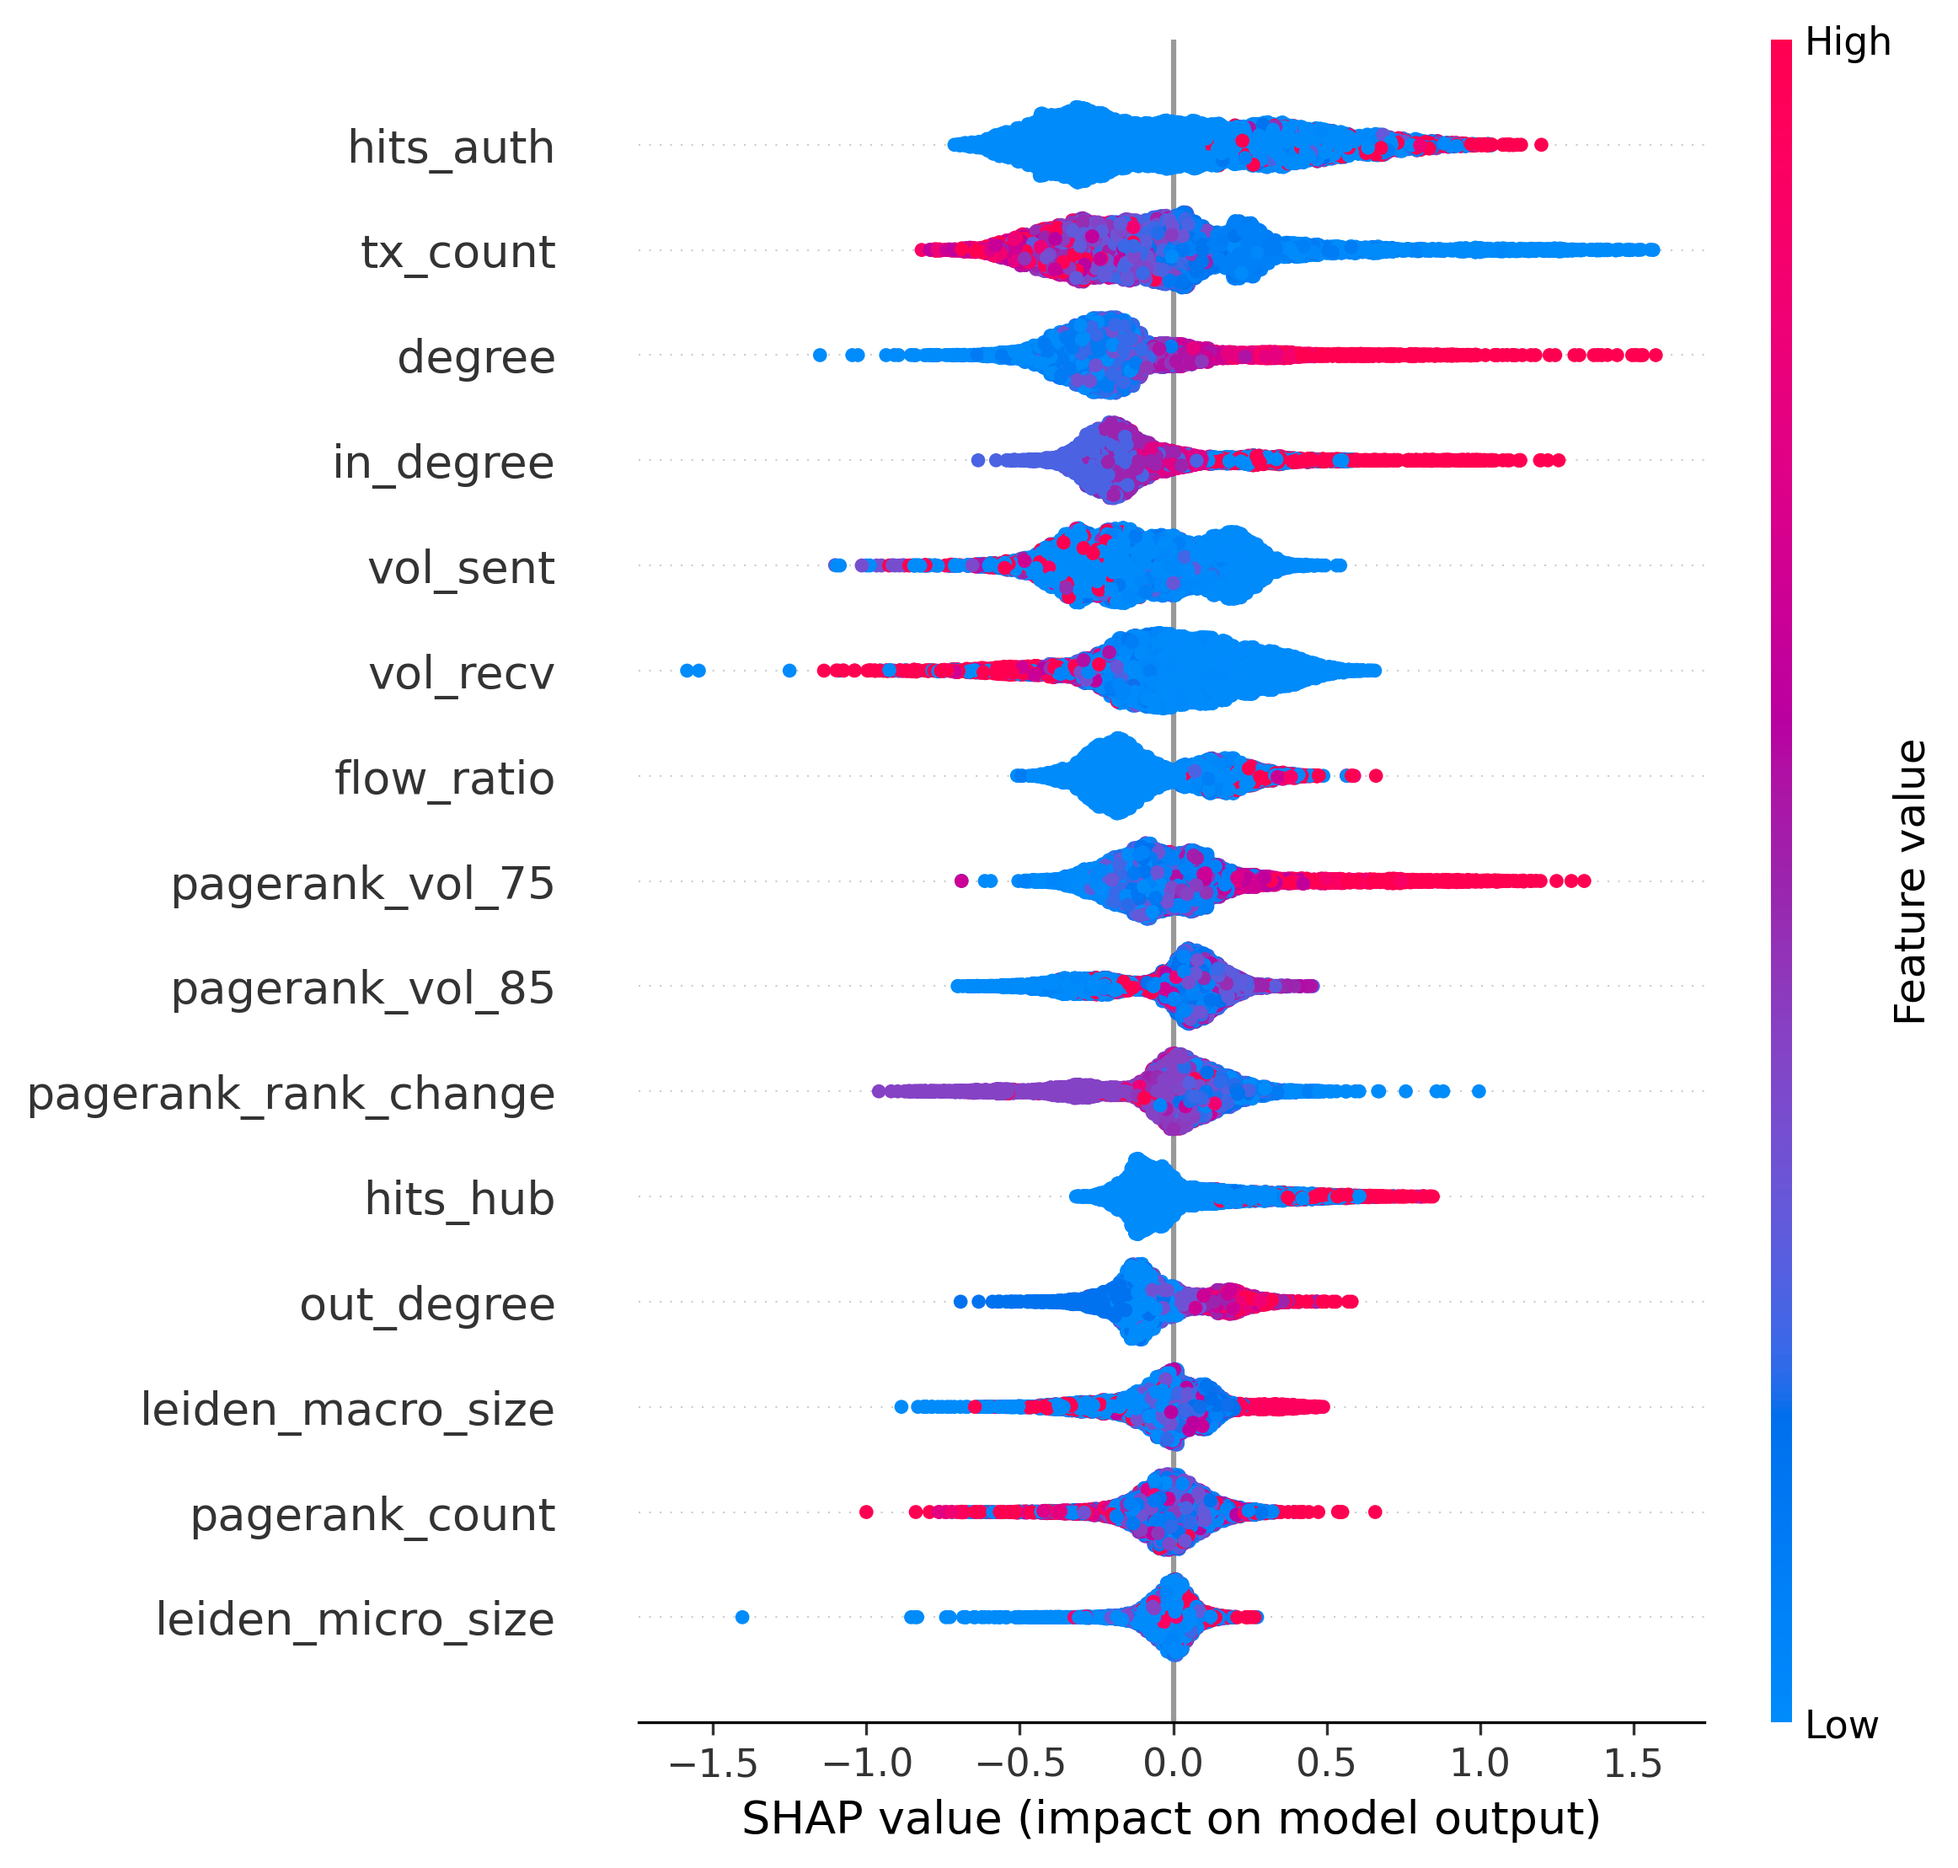
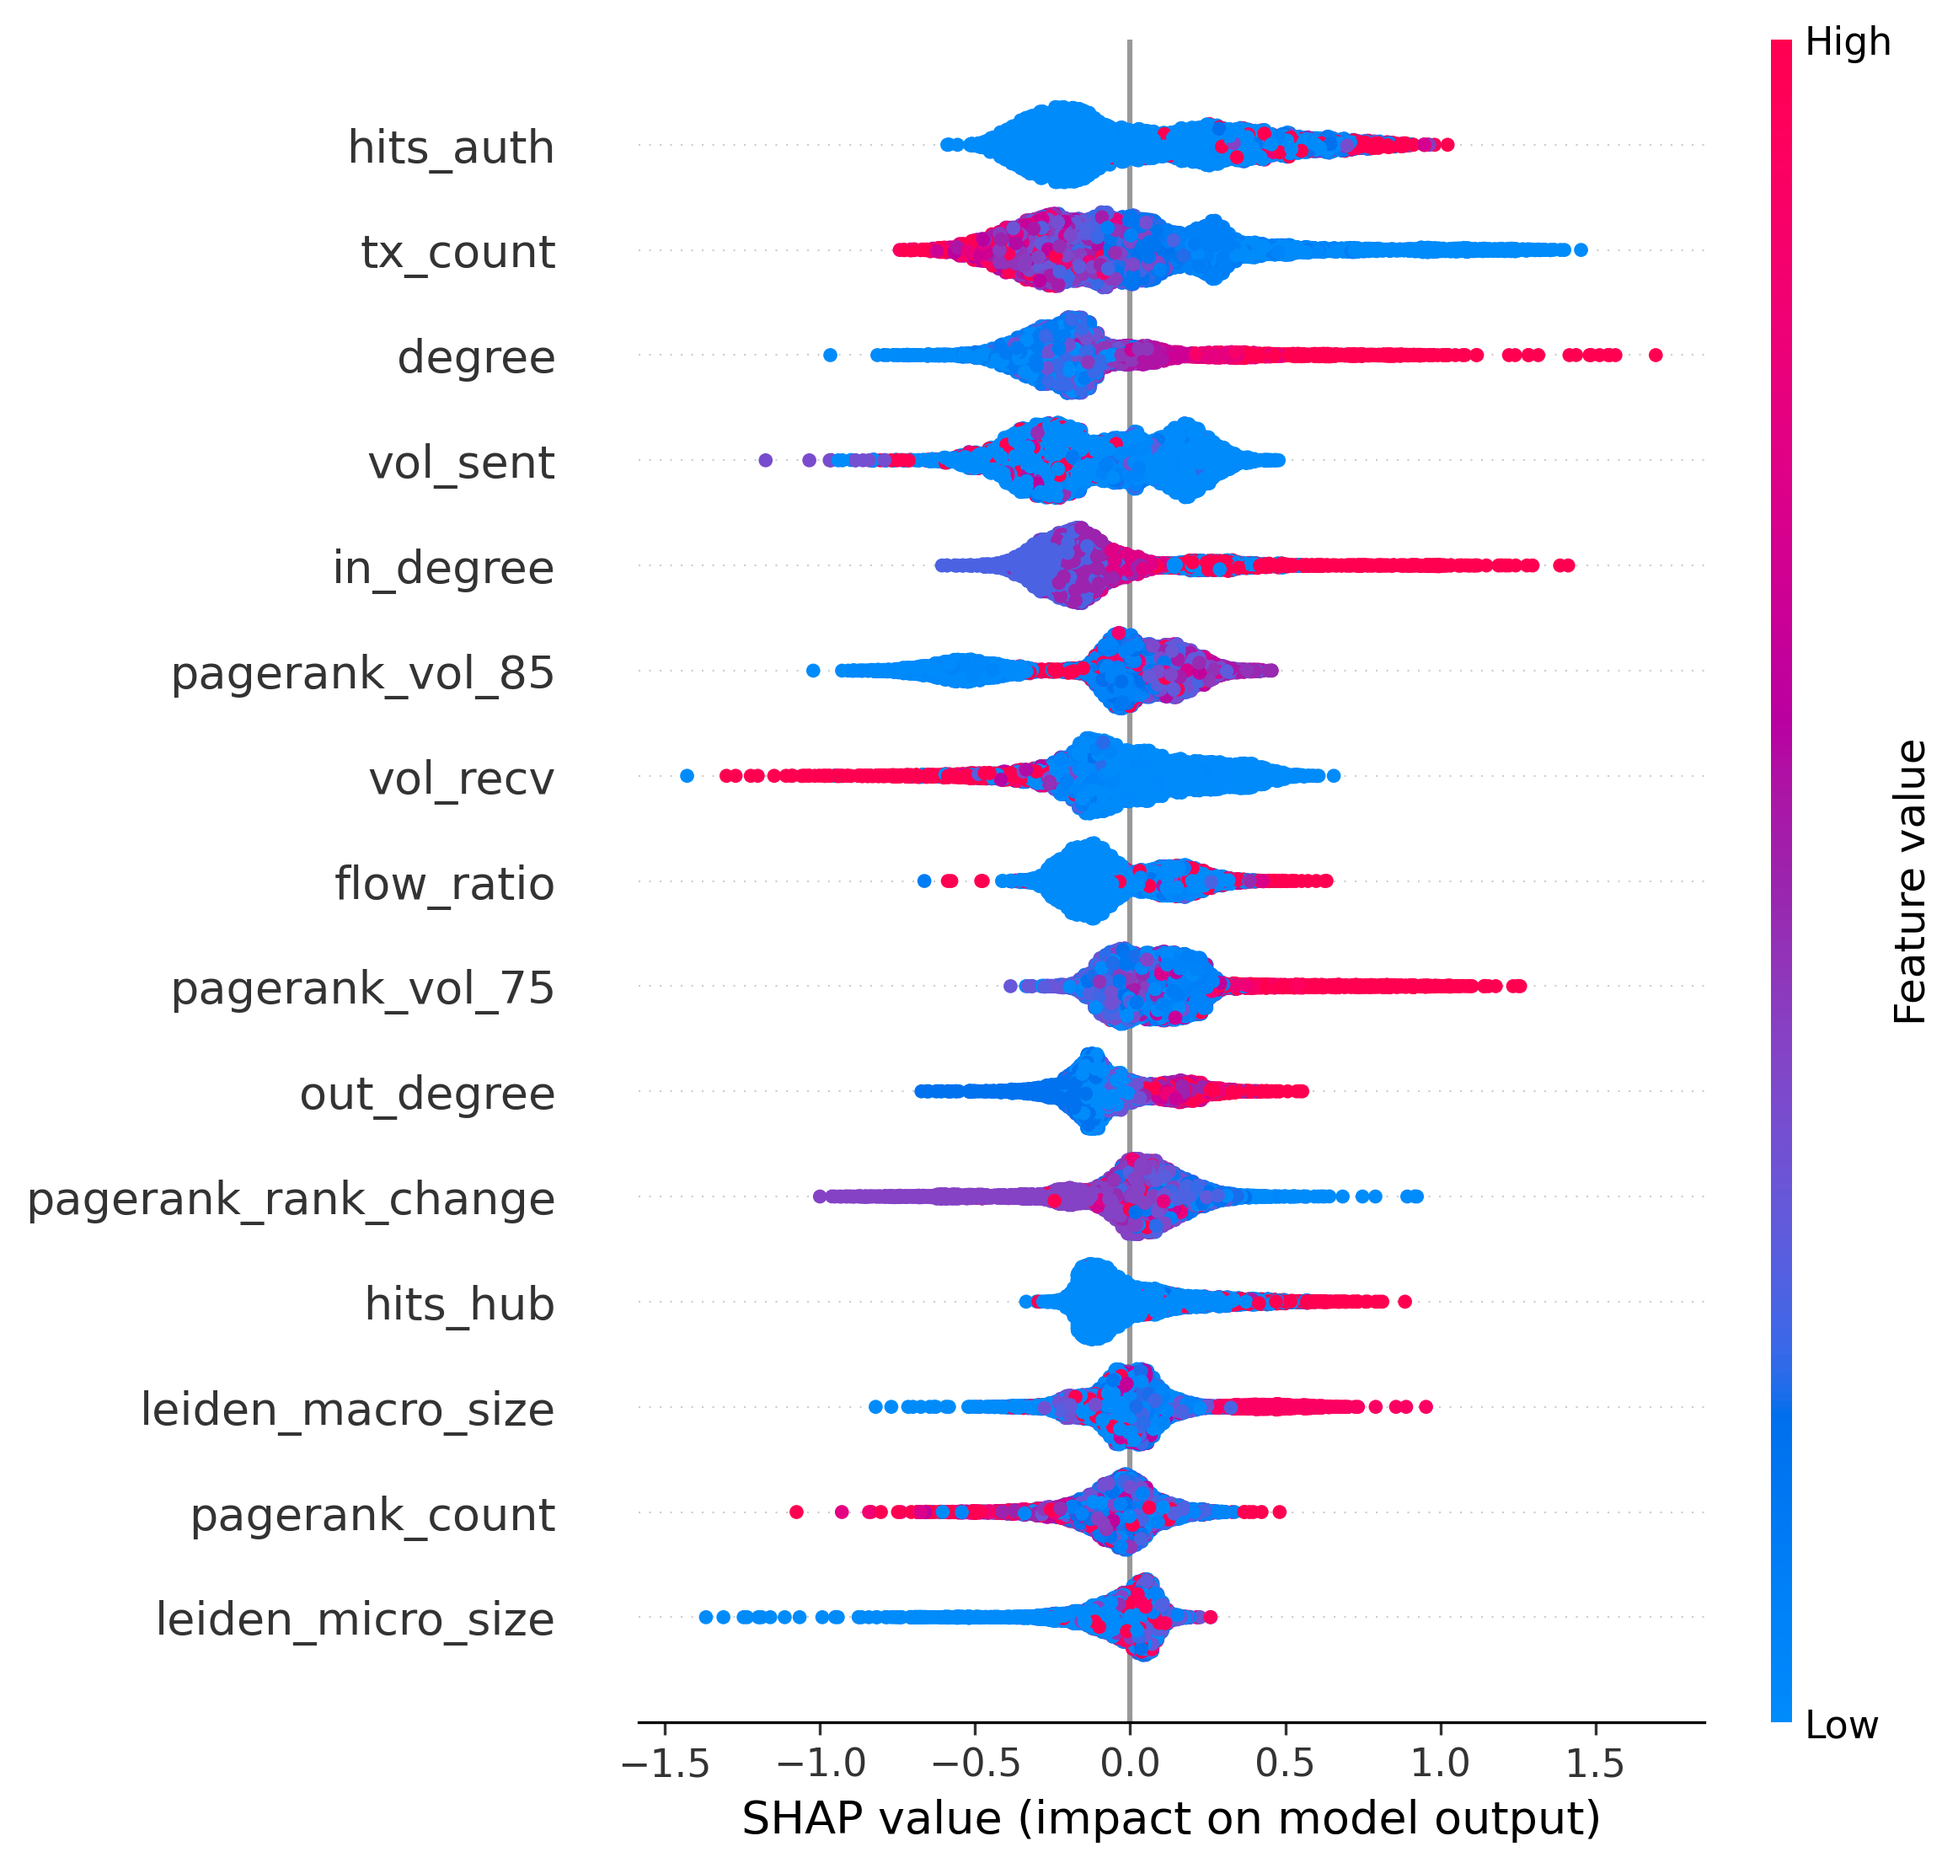
Fix timestamp, chunks and pagerank logs

diff --git a/scripts/01_filter_raw_data.py b/scripts/01_filter_raw_data.py
@@ -2,6 +2,8 @@ import pandas as pd
 import numpy as np
 import argparse
 from pathlib import Path
+import pyarrow as pa
+import pyarrow.parquet as pq
 
 # Config for column mapping
 RAW_HEADER = [
@@ -29,61 +31,85 @@ CUTOFF_CONFIG = {
 
 def process_dataset(dataset_name: str, base_dir: str = "data"):
     """
-    Process raw AMLworld CSVs:
-    1. Load data without topology filtering (keep all types/currencies).
-    2. Filter out 'post-simulation' dates where artifacts occur.
+    Process raw AMLworld CSVs via memory-safe disk streaming:
+    1. Read data in chunks of 1 million rows to prevent OOM errors.
+    2. Enforce explicit datetime formatting for extreme parsing speed.
+    3. Filter out 'post-simulation' dates where artifacts occur.
+    4. Stream directly to Parquet files on disk.
     """
     data_path = Path(base_dir) / dataset_name
     raw_tx_file = data_path / "transactions.csv"
     raw_acct_file = data_path / "accounts.csv"
-    
-    print(f"Processing {dataset_name}...")
-    
-    # 1. Determine Cutoff Date
-    if dataset_name in CUTOFF_CONFIG:
-        cutoff_date = pd.Timestamp(CUTOFF_CONFIG[dataset_name]) + pd.Timedelta(days=1) - pd.Timedelta(seconds=1)
-        # Sets cutoff to 2022-09-10 23:59:59
-        print(f"  - Cutoff Date Enforcement: Keeping transactions <= {cutoff_date}")
-    else:
-        print(f"  - WARNING: No cutoff date found for '{dataset_name}'. Using full dataset (Risk of data leakage!).")
-        cutoff_date = None
 
     if not raw_tx_file.exists():
-        raise FileNotFoundError(f"Could not find {raw_tx_file}")
+        print(f"Error: {raw_tx_file} not found.")
+        return
 
-    # 2. Load Transactions
-    # Check header length to handle duplicate 'Account' columns
-    df = pd.read_csv(raw_tx_file)
-    if len(df.columns) == len(CLEAN_HEADER):
-        df.columns = CLEAN_HEADER
-    else:
-        print("  - Warning: Column count mismatch. Attempting to match by position...")
-        df = df.iloc[:, :11]
-        df.columns = CLEAN_HEADER
-
-    # 3. DateTime Conversion
-    print("  - Converting timestamps...")
-    df['timestamp'] = pd.to_datetime(df['timestamp'])
-    
-    initial_count = len(df)
-    
-    # 4. CRITICAL: Date Filtering
-    # Remove transactions that happen after the simulation window (artifacts)
-    if cutoff_date:
-        df = df[df['timestamp'] <= cutoff_date]
-        dropped_count = initial_count - len(df)
-        print(f"  - Dropped {dropped_count:,} post-simulation transactions (potential artifacts).")
-    
+    cutoff_date_str = CUTOFF_CONFIG.get(dataset_name)
+    cutoff_date = pd.to_datetime(cutoff_date_str) if cutoff_date_str else None
 
     output_normal = data_path / "1_filtered_normal_transactions.parquet"
     output_laundering = data_path / "2_filtered_laundering_transactions.parquet"
 
-    print(f"  - Saving to {output_normal}...")
-    df[df['is_laundering'] == 0].to_parquet(output_normal, index=False)
-    
-    print(f"  - Saving to {output_laundering}...")
-    df[df['is_laundering'] == 1].to_parquet(output_laundering, index=False)
+    print(f"Processing {dataset_name} in chunks to prevent OOM errors...")
 
+    # Initialize PyArrow writers for disk streaming
+    normal_writer = None
+    laundering_writer = None
+    
+    total_rows = 0
+    dropped_count = 0
+
+    # 1. THE CHUNKSIZE FIX: Read 1M rows into memory at a time
+    chunk_iter = pd.read_csv(raw_tx_file, chunksize=1_000_000, low_memory=False)
+
+    for i, chunk in enumerate(chunk_iter):
+        initial_chunk_size = len(chunk)
+        total_rows += initial_chunk_size
+
+        # Clean headers
+        chunk = chunk.iloc[:, :11]
+        chunk.columns = CLEAN_HEADER
+
+        # 2. THE DATETIME FIX: Explicit format avoids row-by-row inference
+        # ISO8601 safely covers standard AMLSim output formats (e.g., '2022-09-01T00:00:00Z')
+        chunk['timestamp'] = pd.to_datetime(chunk['timestamp'], format='ISO8601')
+
+        # 3. Date Filtering
+        if cutoff_date:
+            chunk = chunk[chunk['timestamp'] <= cutoff_date]
+            dropped_count += (initial_chunk_size - len(chunk))
+
+        # Split normal and laundering
+        normal_chunk = chunk[chunk['is_laundering'] == 0]
+        laundering_chunk = chunk[chunk['is_laundering'] == 1]
+
+        # 4. Stream directly to Parquet on disk (Memory clears after this step)
+        if not normal_chunk.empty:
+            table_n = pa.Table.from_pandas(normal_chunk)
+            if normal_writer is None:
+                normal_writer = pq.ParquetWriter(output_normal, table_n.schema)
+            normal_writer.write_table(table_n)
+
+        if not laundering_chunk.empty:
+            table_l = pa.Table.from_pandas(laundering_chunk)
+            if laundering_writer is None:
+                laundering_writer = pq.ParquetWriter(output_laundering, table_l.schema)
+            laundering_writer.write_table(table_l)
+            
+        print(f"  - Processed chunk {i+1} ({(i+1)*1_000_000:,} rows read so far)")
+
+    # Close the disk streams
+    if normal_writer: normal_writer.close()
+    if laundering_writer: laundering_writer.close()
+
+    if cutoff_date:
+        print(f"  - Dropped {dropped_count:,} post-simulation transactions (artifacts).")
+    
+    print(f"  - Saved to {output_normal}")
+    print(f"  - Saved to {output_laundering}")
+
+    # Accounts file is small enough (usually < 2 million rows) to process safely in memory
     if raw_acct_file.exists():
         print(f"  - Processing accounts...")
         accts_df = pd.read_csv(raw_acct_file)
@@ -94,10 +120,7 @@ def process_dataset(dataset_name: str, base_dir: str = "data"):
 
 if __name__ == "__main__":
     parser = argparse.ArgumentParser()
-    parser.add_argument("--dataset", type=str, default="HI_Small", 
-                        help="Name of the folder (e.g., HI_Small, HI_Large)")
-    parser.add_argument("--dir", type=str, default="data", 
-                        help="Base data directory")
-    
+    parser.add_argument("--dataset", type=str, default="HI_Small", help="Dataset folder name")
     args = parser.parse_args()
-    process_dataset(args.dataset, args.dir)
+    
+    process_dataset(args.dataset)

diff --git a/scripts/02_extract_features.py b/scripts/02_extract_features.py
@@ -577,7 +577,7 @@ def main() -> None:
         print("Aggregate Evaluation Summary (Mean Across All Days)")
         print("=" * 60)
 
-        for algo in ["pr_vol_85", "hits_hub", "hits_auth"]:
+        for algo in ["pagerank", "hits_hub", "hits_auth"]:
             algo_df = metrics_df[metrics_df["algorithm"] == algo]
             if algo_df.empty:
                 continue

diff --git a/todo.md b/todo.md
@@ -2,6 +2,18 @@
 - [ ] Run the large dataset and analyze results.
 - [ ] for leiden: see how much fraud it finds by comparing the percentage of fraud in the communities with the percentage of fraud in the entire graph
 
+Flaws found
+
+Critical (Requires Immediate Action)
+
+Epistemic Test Leakage (Lack of Validation Set)
+Valid. If you modify the XGBoost parameters (max_depth, n_estimators, or scale_pos_weight) to improve the AUPRC on the test set, you are committing data leakage. You are manually fitting the model to the unseen data, which mathematically invalidates your 87% Precision@100 claim.
+Action: Refactor 03_train_model.py to enforce a strictly chronological Train/Validation/Test split (e.g., 60/20/20). Train on the first block, tune parameters on the middle block, and report final metrics exclusively on the final block.
+
+Instantaneous Label Maturity Assumption
+Highly Valid. In applied financial forensics, confirmed fraud labels are never instantly available. They require manual investigator review, creating a lag of 30 to 90 days. Splitting the data so that the training set ends on Day 100 and the test set begins on Day 101 assumes instantaneous omnipotence.
+Action: Introduce a "label delay buffer" (e.g., 7 or 14 days) between your train and test sets in 03_train_model.py where data is simply dropped. Presenting this in your defense proves deep domain expertise.
+
 (oddball paper)
 The trimmed-down set of features that are very successful in spotting patterns, are the following:
 1. Ni: number of neighbors (degree) of ego i,
